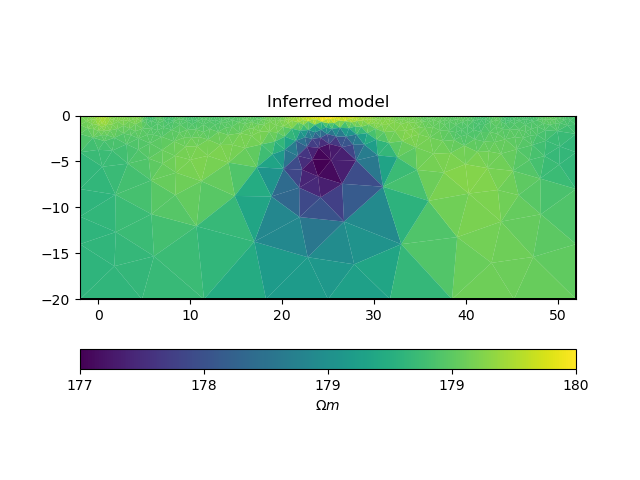
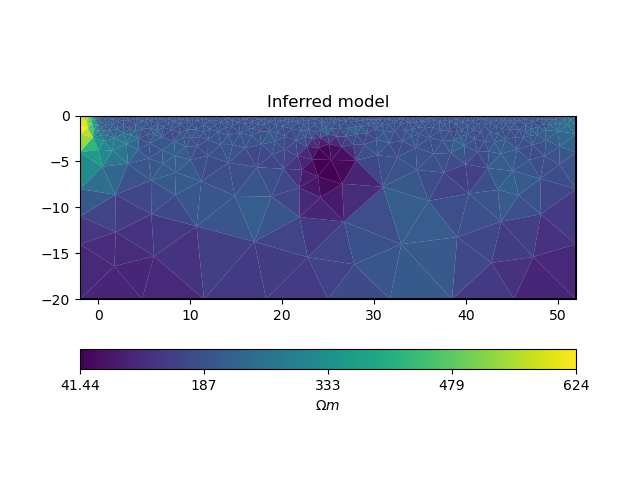
fix: data covariance matrix

diff --git a/notebooks/pygimli_ert/pygimli_ert_lib.py b/notebooks/pygimli_ert/pygimli_ert_lib.py
@@ -37,7 +37,9 @@ def ert_simulate(mesh, scheme, rhomap, noise_level=1, noise_abs=1e-6):
                         noise_abs=noise_abs, seed=42)
     data.remove(data["rhoa"] < 0)
     log_data = np.log(data["rhoa"].array())
-    data_cov_inv = np.eye(log_data.shape[0]) * (data["err"] ** 2)
+    data_err = data["rhoa"] * data["err"]
+    data_err_log = np.log(data_err)
+    data_cov_inv = np.eye(log_data.shape[0]) / (data_err_log ** 2)
     return data, log_data, data_cov_inv
 
 # PyGIMLi ert.ERTManager

diff --git a/notebooks/pygimli_ert/pygimli_ert_inbuilt_invert.py b/notebooks/pygimli_ert/pygimli_ert_inbuilt_invert.py
@@ -37,5 +37,5 @@ fig = mgr.showResultAndFit()
 fig.savefig("figs/inbuilt_solver_result")
 
 Wm = reg_matrix(mgr.fop)
-print("data misfit:", get_data_misfit(inv, log_data, mgr.fop, data["err"]))
-print("regularisation:", get_regularisation(inv, Wm, 20))
+print("data misfit:", get_data_misfit(inv, log_data, mgr.fop, data_cov_inv))
+print("regularisation:", get_regularisation(inv, Wm, 0.005))
